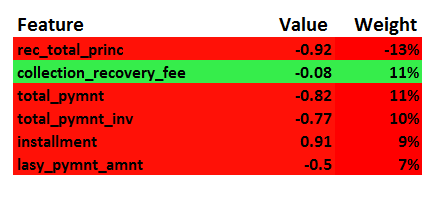
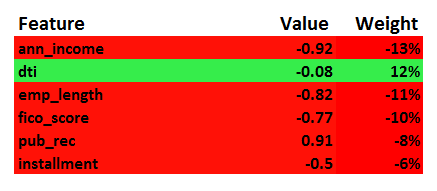
add maxim

diff --git a/html/facial_rec_res.html b/html/facial_rec_res.html
@@ -125,7 +125,7 @@
   textarea {
       resize: none;
   }
-  .bigger { font-size:140%; color:green}
+  .bigger { font-size:140%; color:red}
   </style>
 </head>
 <body id="myPage" data-spy="scroll" data-target=".navbar" data-offset="50">
@@ -155,24 +155,24 @@
 <!-- Container Name, ID, and Gauge Prediction -->
 <div id="band" class="container text-center" style="padding-bottom:25px">
   <h3 style="font-size:28px;">How Greg are you?</h3>
-  <img src="fr_images/greg_orig.jpg" alt="Random Name" width="250" height="250">
-  <p style="padding-top:10px; font-size:30px;">Confirmed! You are Greg! It is a <span class='bigger'><strong>92%</strong></span> match.</p>
+  <img src="fr_images/maxim_orig.jpg" alt="Random Name" width="250" height="250">
+  <p style="padding-top:10px; font-size:30px;">Imposter! You are not Greg! It is a <span class='bigger'><strong>6%</strong></span> match.</p>
 </div>
 
 <div id="band" class="container text-center bg-1">
   <div class="row">
     <div class="col-md-4">
-      <img src="fr_images/greg1.png"  width="250" height="250">
-      <p style="font-size:20px; padding-right:25px; padding-left:25px;">The green region contributed <span class='bigger'><strong>21%</strong></span> to classifying the image as Greg.</p>
+      <img src="fr_images/maxim1.png"  width="250" height="250">
+      <p style="font-size:20px; padding-right:25px; padding-left:25px;">The green region contributed <span class='bigger'><strong>31%</strong></span> to classifying the image as Greg.</p>
     </div>
     <div class="col-md-4">
-      <img src="fr_images/greg3.png" width="250" height="250">
-      <p style="font-size:20px; padding-right:25px; padding-left:25px;">The green region contributed <span class='bigger'><strong>48%</strong></span> to classifying the image as Greg.</p>
+      <img src="fr_images/maxim3.png" width="250" height="250">
+      <p style="font-size:20px; padding-right:25px; padding-left:25px;">The green region contributed <span class='bigger'><strong>57%</strong></span> to classifying the image as Greg.</p>
     
     </div>
     <div class="col-md-4">
-      <img src="fr_images/greg5.png" width="250" height="250">
-      <p style="font-size:20px; padding-right:25px; padding-left:25px;">The green region contributed <span class='bigger'><strong>79%</strong></span> to classifying the image as Greg.</p>
+      <img src="fr_images/maxim5.png" width="250" height="250">
+      <p style="font-size:20px; padding-right:25px; padding-left:25px;">The green region contributed <span class='bigger'><strong>65%</strong></span> to classifying the image as Greg.</p>
      
     </div>
   </div>
@@ -181,7 +181,7 @@
   <br>
   <div class="row">
     <div class="col-md-12">
-      <img src="fr_images/greg_full.png" alt="Random Name" width="250" height="250">  
+      <img src="fr_images/maxim_full.png" alt="Random Name" width="250" height="250">  
       <p style="font-size:20px; padding-right:25px; padding-left:25px;">The full explanation overlay.</p>     
 </div>
   </div>

diff --git a/html/loans_res.html b/html/loans_res.html
@@ -124,6 +124,7 @@
   textarea {
       resize: none;
   }
+  .bigger { font-size:140%; color:red}
   </style>
 </head>
 <body id="myPage" data-spy="scroll" data-target=".navbar" data-offset="50">
@@ -151,14 +152,15 @@
 
 <!-- Container Name, ID, and Gauge Prediction -->
 <div id="band" class="container text-center">
-  <h3>Name: John Smith &emsp;&emsp;&emsp; ID: 576229</h3>
+  <h3 style="font-size:28px;">Name: <strong style="font-size:40px;">John Smith</strong> &emsp;&emsp;&emsp; ID: <strong style="font-size:40px;">576229</strong></h3>
   <img src="loan_images/gauge.png" alt="Random Name" width="450" height="230">
-  <p>It is 54% likely that this loan will be Charged Off. The most significant features in this deicion and their contributions to the decision are:</p>
-  <p>13% - total_rec_prncp</p>
-  <p>10% - total_pymnt</p>
-  <p>9% - total_pymnt_inv</p>
-  <p>8% - installment</p>
-  <p>6% - last_pymnt_amnt</p>
+  <p style="font-size:30px;">It is <span class="bigger"><strong>55%</strong></span> likely that this loan will be <span class="bigger"><strong>Charged Off</strong></span></p>
+  <p style="font-size:22px;">The most significant features in this decision and their contributions are:</p>
+  <p style="color:#FF0000; font-size:26px">13% - ann_income</p>
+  <p style="color:#FF5700; font-size:26px">11% - emp_length</p>
+  <p style="color:#FF7B00; font-size:26px">10% - fico_score</p>
+  <p style="color:#FF9E00; font-size:26px">8% - pub_rec</p>
+  <p style="color:#FFC100; font-size:26px">6% - installment</p>
 </div>
 
 <div id="band" class="container text-center bg-1">

diff --git a/html/crop_res.html b/html/crop_res.html
@@ -167,7 +167,7 @@
     <div class="col-md-8">
       <p style="text-align:left;font-size:22px; padding-right:25px; padding-left:25px;">The green region contributed <span class='bigger'><strong>52%</strong></span> to identifying Northern Leaf Blight.</p>
       <p style="text-align:left;"><span style="font-size:22px;font-style:normal;">DISEASE EXPLANATION:</span> Northern Leaf Blight is caused by a fungus found in humid climates. Spores are spread by rain splash and air currents to the leaves of new crops in spring and early summer. Northern Leaf Blight leads to losses in yeild due to decreased photosynthesis.</p>
-      <p style="text-align:left;"> <span style="font-size:22px;font-style:normal;">HOW TO IDENTIFY:</span> Northern Leaf Blight displays itself as pale grey to tan lesions that can grow to between 1 to 6 inches long. In more moist conditions, lesions produce dark grey spores that can give the leaf a 'dirty' or 'burnt' appearance.
+      <p style="text-align:left;"> <span style="font-size:22px;font-style:normal;">HOW TO IDENTIFY:</span> Northern Leaf Blight displays itself as pale grey to tan lesions that can grow to between 1 to 6 inches long. These lesions often give the leaf a dry, dirty, or burnt appearance.
       <p style="text-align:left;"> <span style="font-size:22px;font-style:normal;">CURE AND PREVENT:</span> Fungicide application can be used to reduce the yield loss. Utilizing crop rotation and sufficient tillage will help prevent Northern Leaf Blight from spreading to future yields.
     </div>
   </div>
